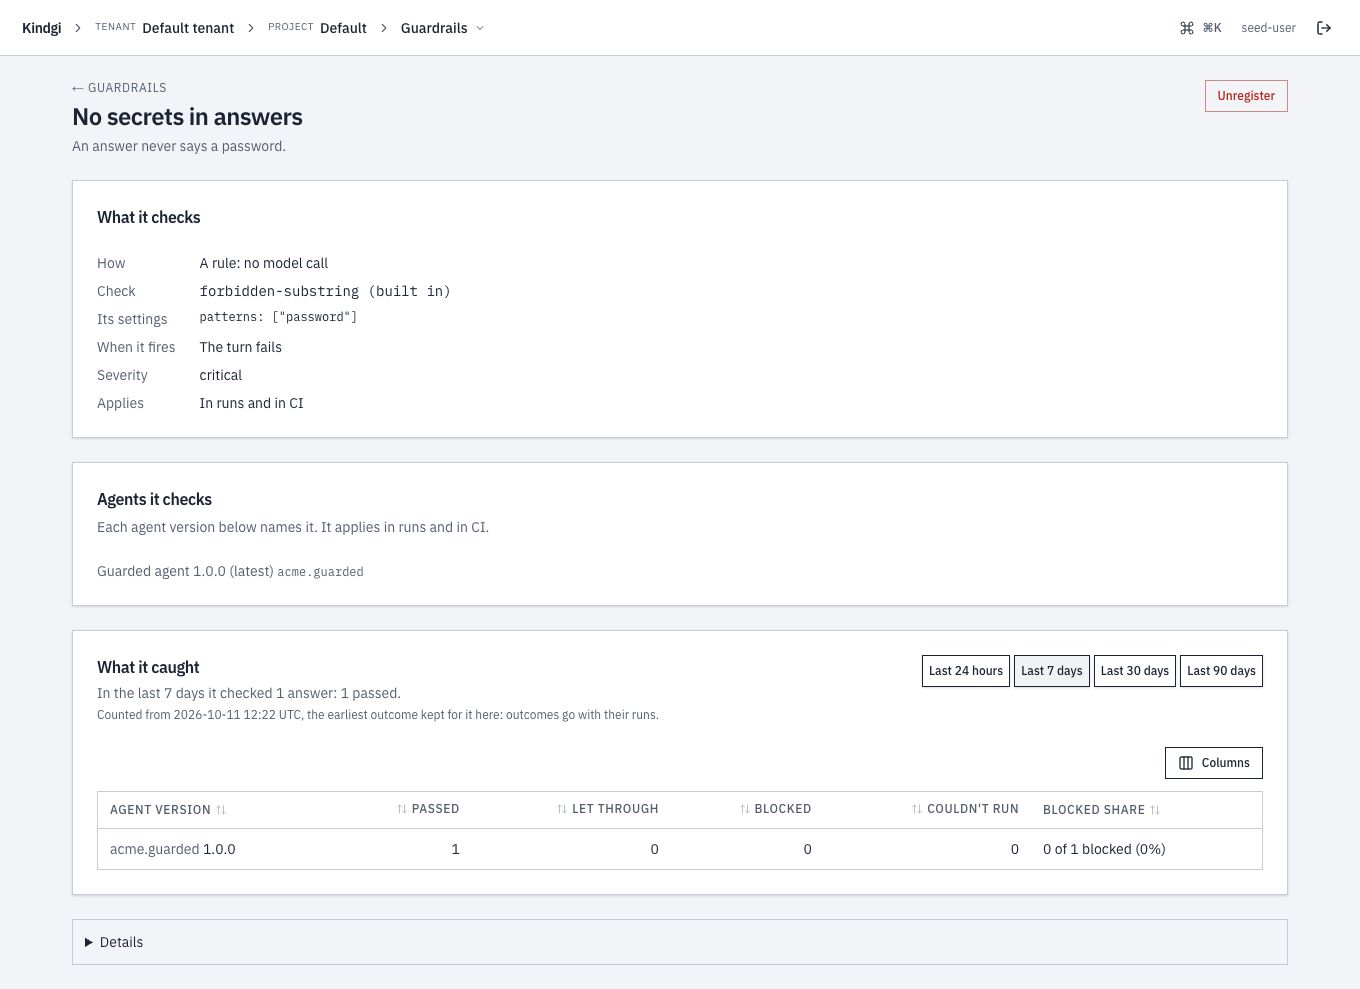
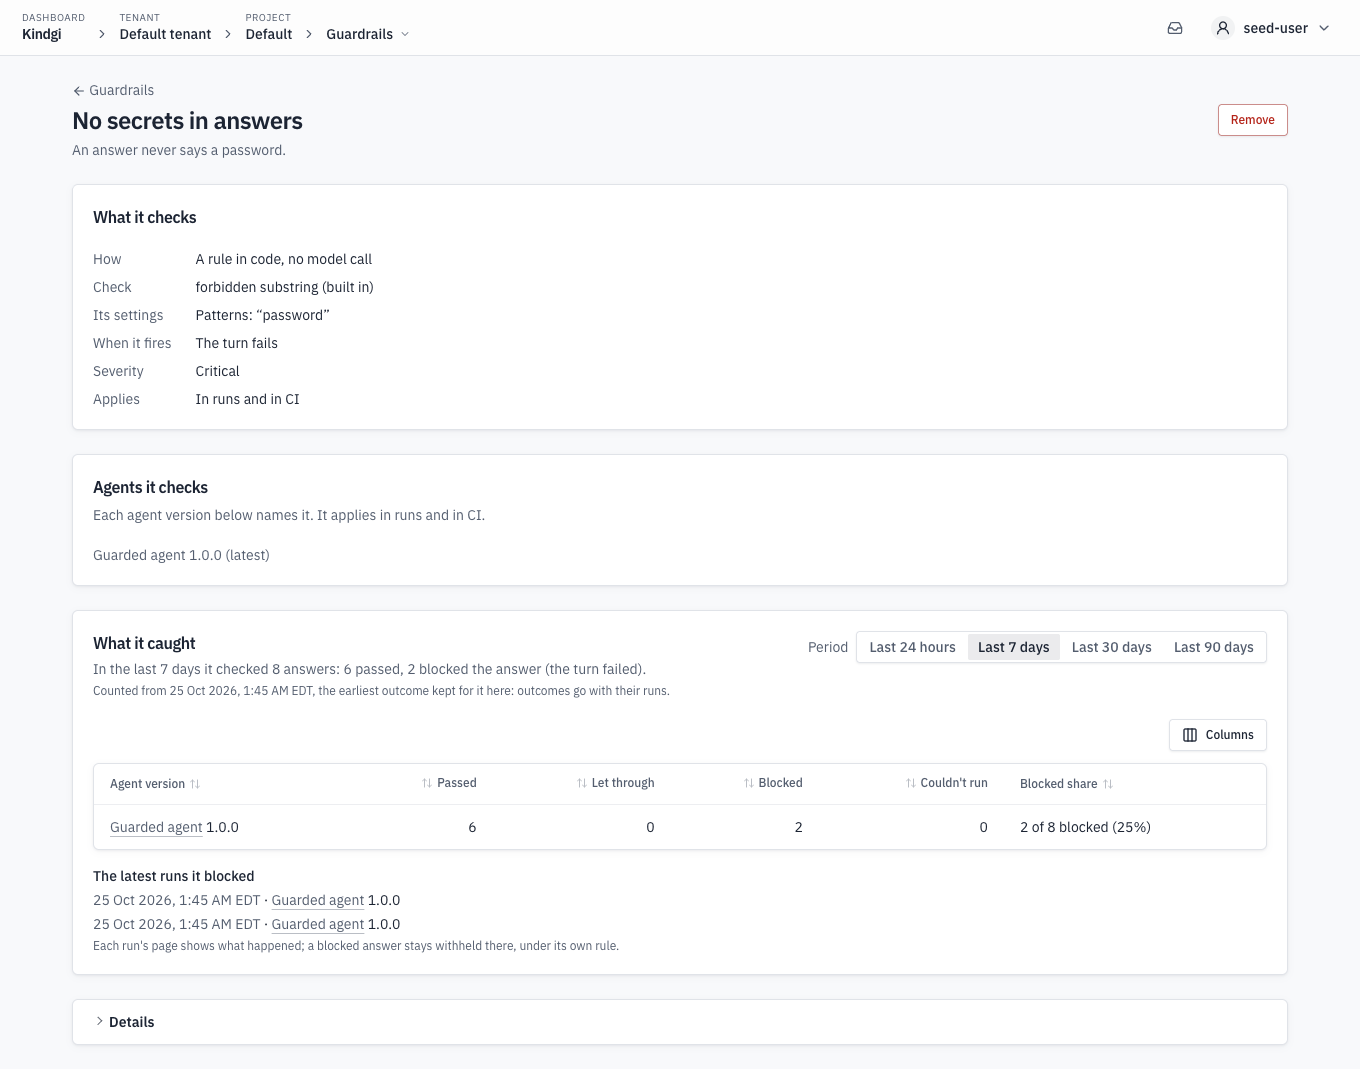
docs(site): flows and guardrails in the console as they read now, and the runs links
- Write a flow: the console section is rewritten from the console. The Flows
  list has no headline, shows each flow's latest version and its agent and
  tool versions, and marks a flow whose every version is retired. A flow's
  page has Runs, Cost and Start run, "What 2.0.0 uses" with what's locked,
  every version with Runs → (a retired one marked), and What triggers it.
  Retire takes the place of Unregister, with its dialog, Bring it back and
  Bring back; the every-version-retired notice and kindgi dev's line follow.
  flows-list.png, flow-page.png and flow-retired-version.png (was
  flow-unregistered-version.png) are retaken; flow-retire-dialog.png is new.
- Write a guardrail: the Guardrails list has no headline, and its columns
  are named as the page names them. Remove takes the place of Unregister,
  with its dialog, Keep it, what it shows once removed and kindgi dev's
  line. guardrails-list.png, guardrail-page.png, guardrail-flow-pinned.png
  and guardrail-remove.png (was guardrail-unregister.png) are retaken.
- Stop a turn or record a violation: what-it-caught.png is retaken, and its
  Counted from line is on the viewer's clock.
- List runs: a flow's page has Runs at the top and Runs → on each version's
  row; a schedule's page links Runs it started →.
- Run on a schedule: Tools allowed unattended is a row of the page's
  folded Details. Sign in to the console: cost by day's whole title, and
[…]

diff --git a/site/src/content/docs/guides/sso/sign-in.md b/site/src/content/docs/guides/sso/sign-in.md
@@ -116,14 +116,14 @@ Its clock reads 12 or 24 hours as your browser's language does: 12 in
 American English, 24 in British English, French or German. Only what the
 console shows changes: the runtime keeps and sends times in UTC, so the API
 and its clients see UTC. A few stay in UTC and say so: cost by day ("Spend
-by day (UTC)"), the project overview's "The last 7 days, by UTC day", and
+by day (UTC), by agent"), the project overview's "The last 7 days, by UTC
+day", and
 an Improve schedule's monthly cap ("A calendar month, UTC."). A schedule's
 cron reads in the schedule's own zone
 ([Run on a schedule](../../runs/run-on-a-schedule/#in-the-console)).
 
-This browser keeps your Theme and Times, for you alone. Another browser, or
-one that keeps nothing, such as a private window, starts at System and
-Local.
+Your Theme and Times are kept in this browser, not with your account:
+another browser, or a new private window, starts at System and Local.
 
 ## Next
 
